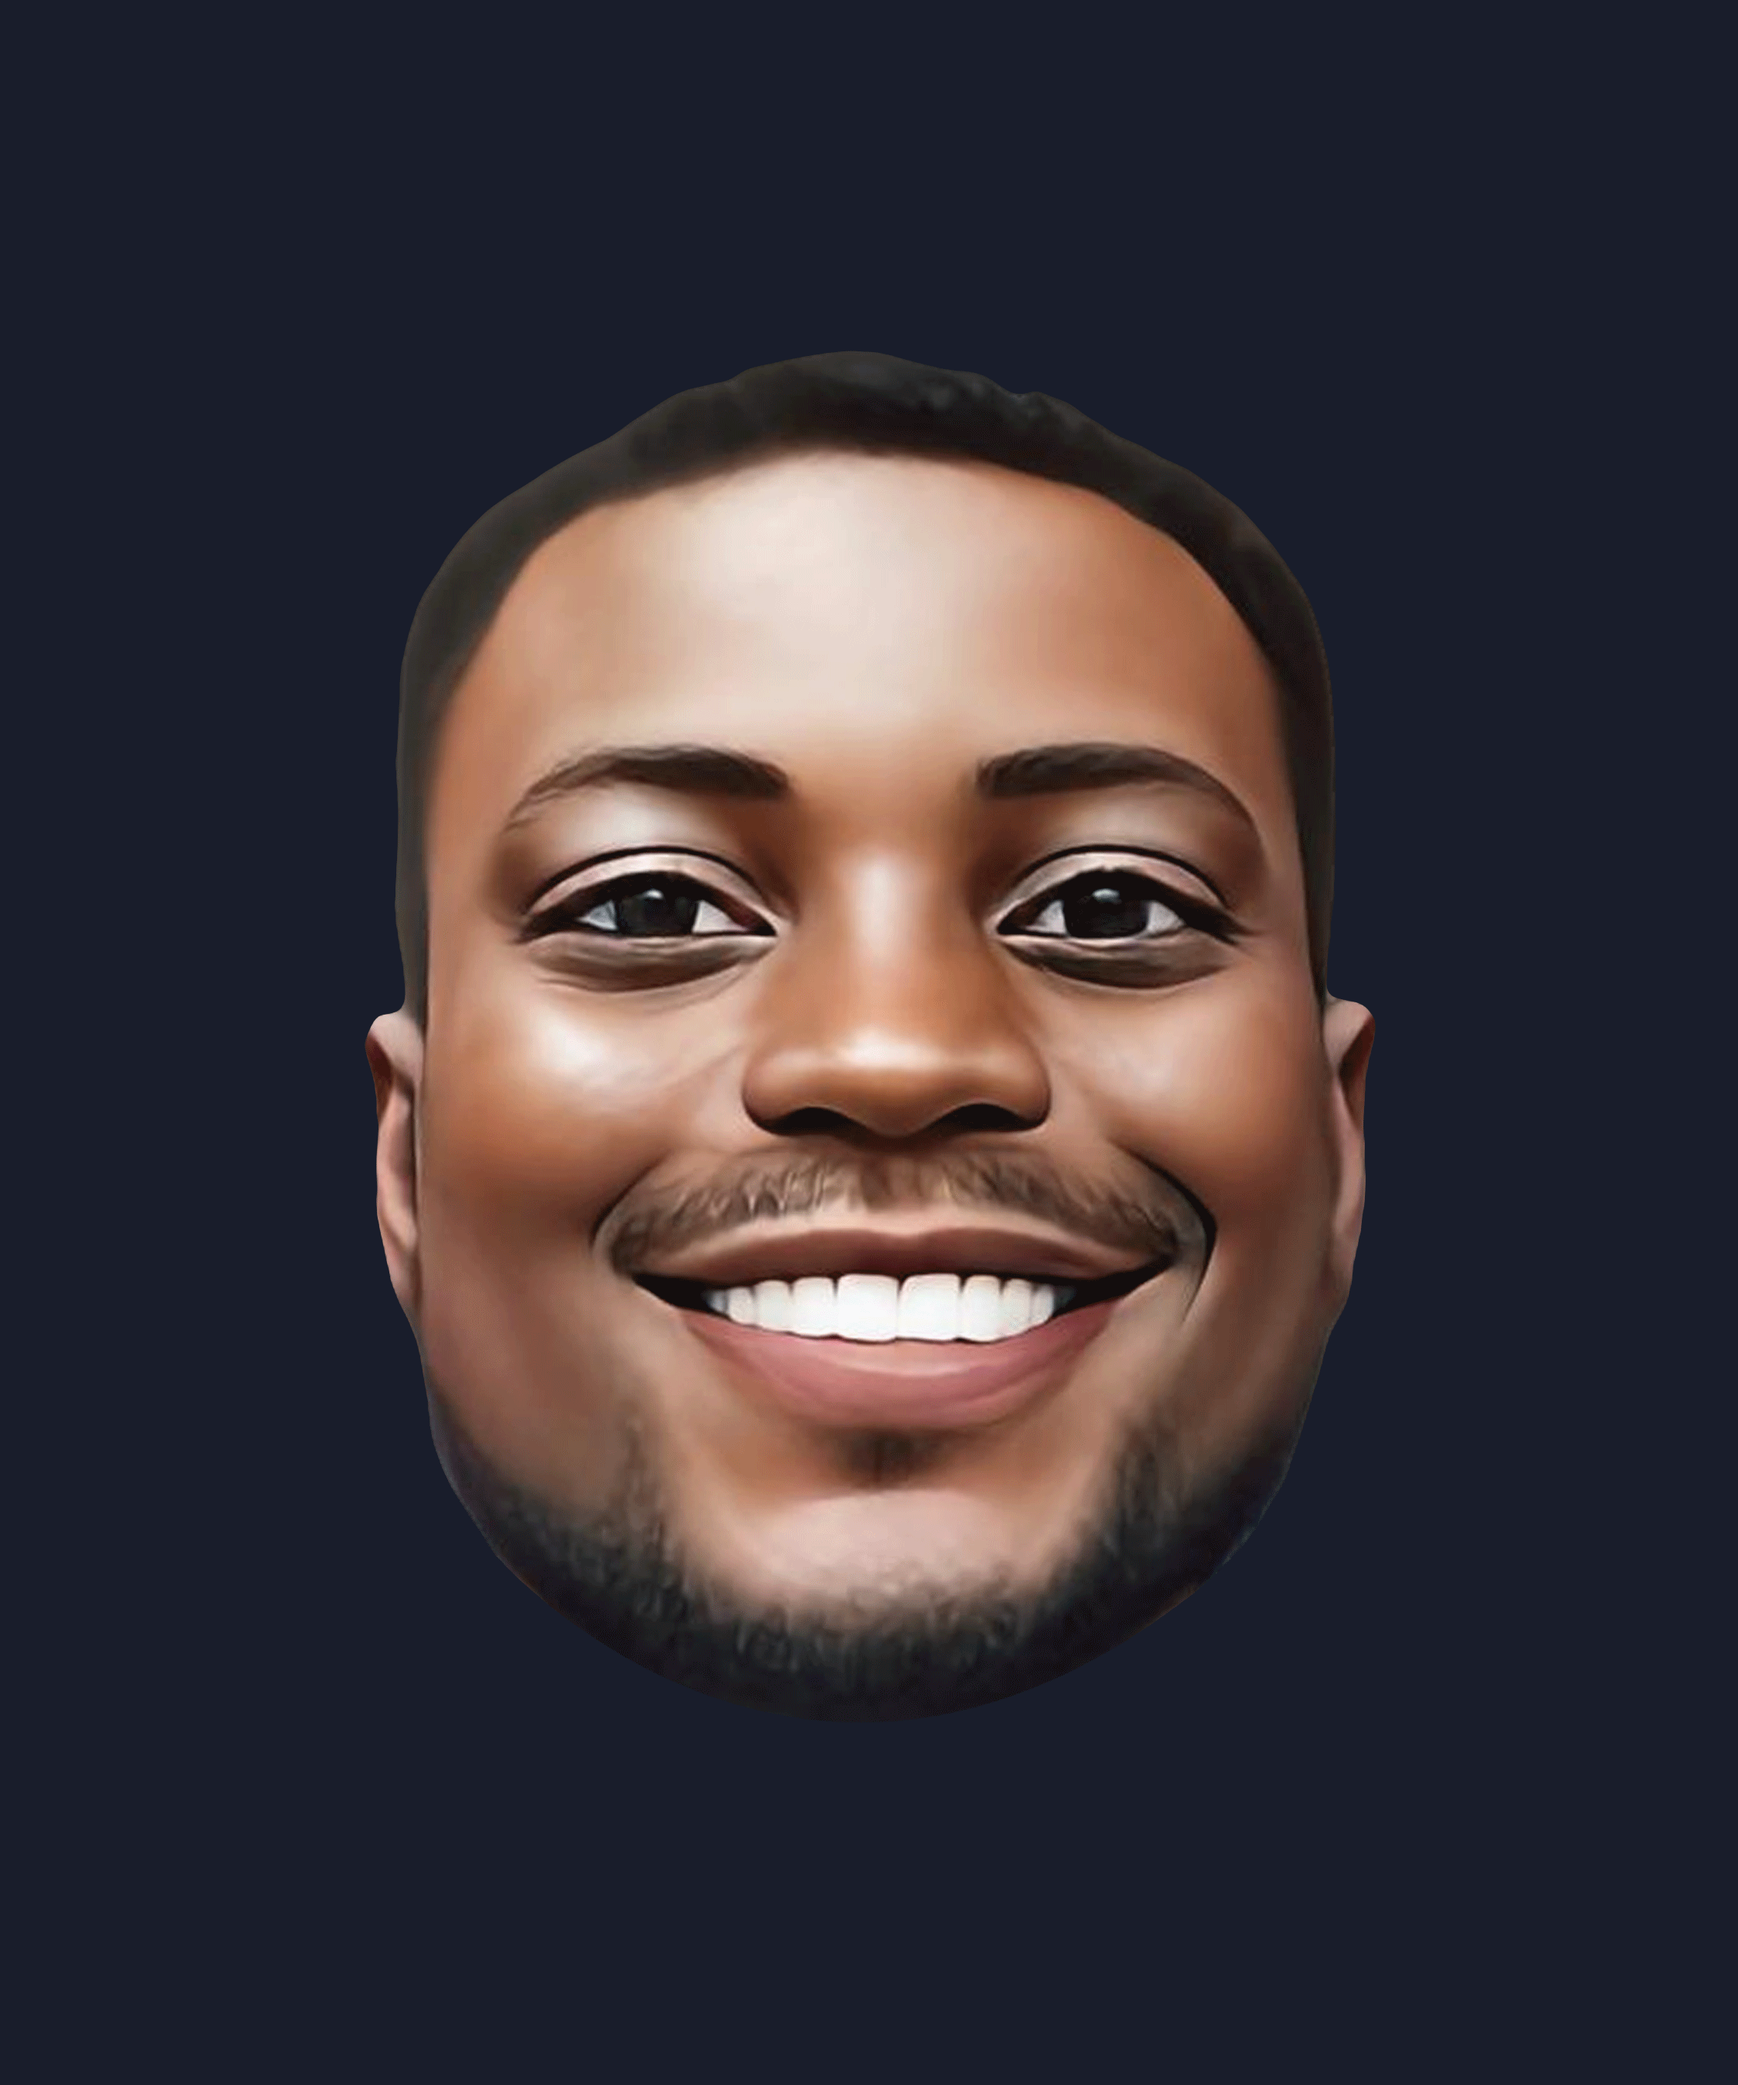
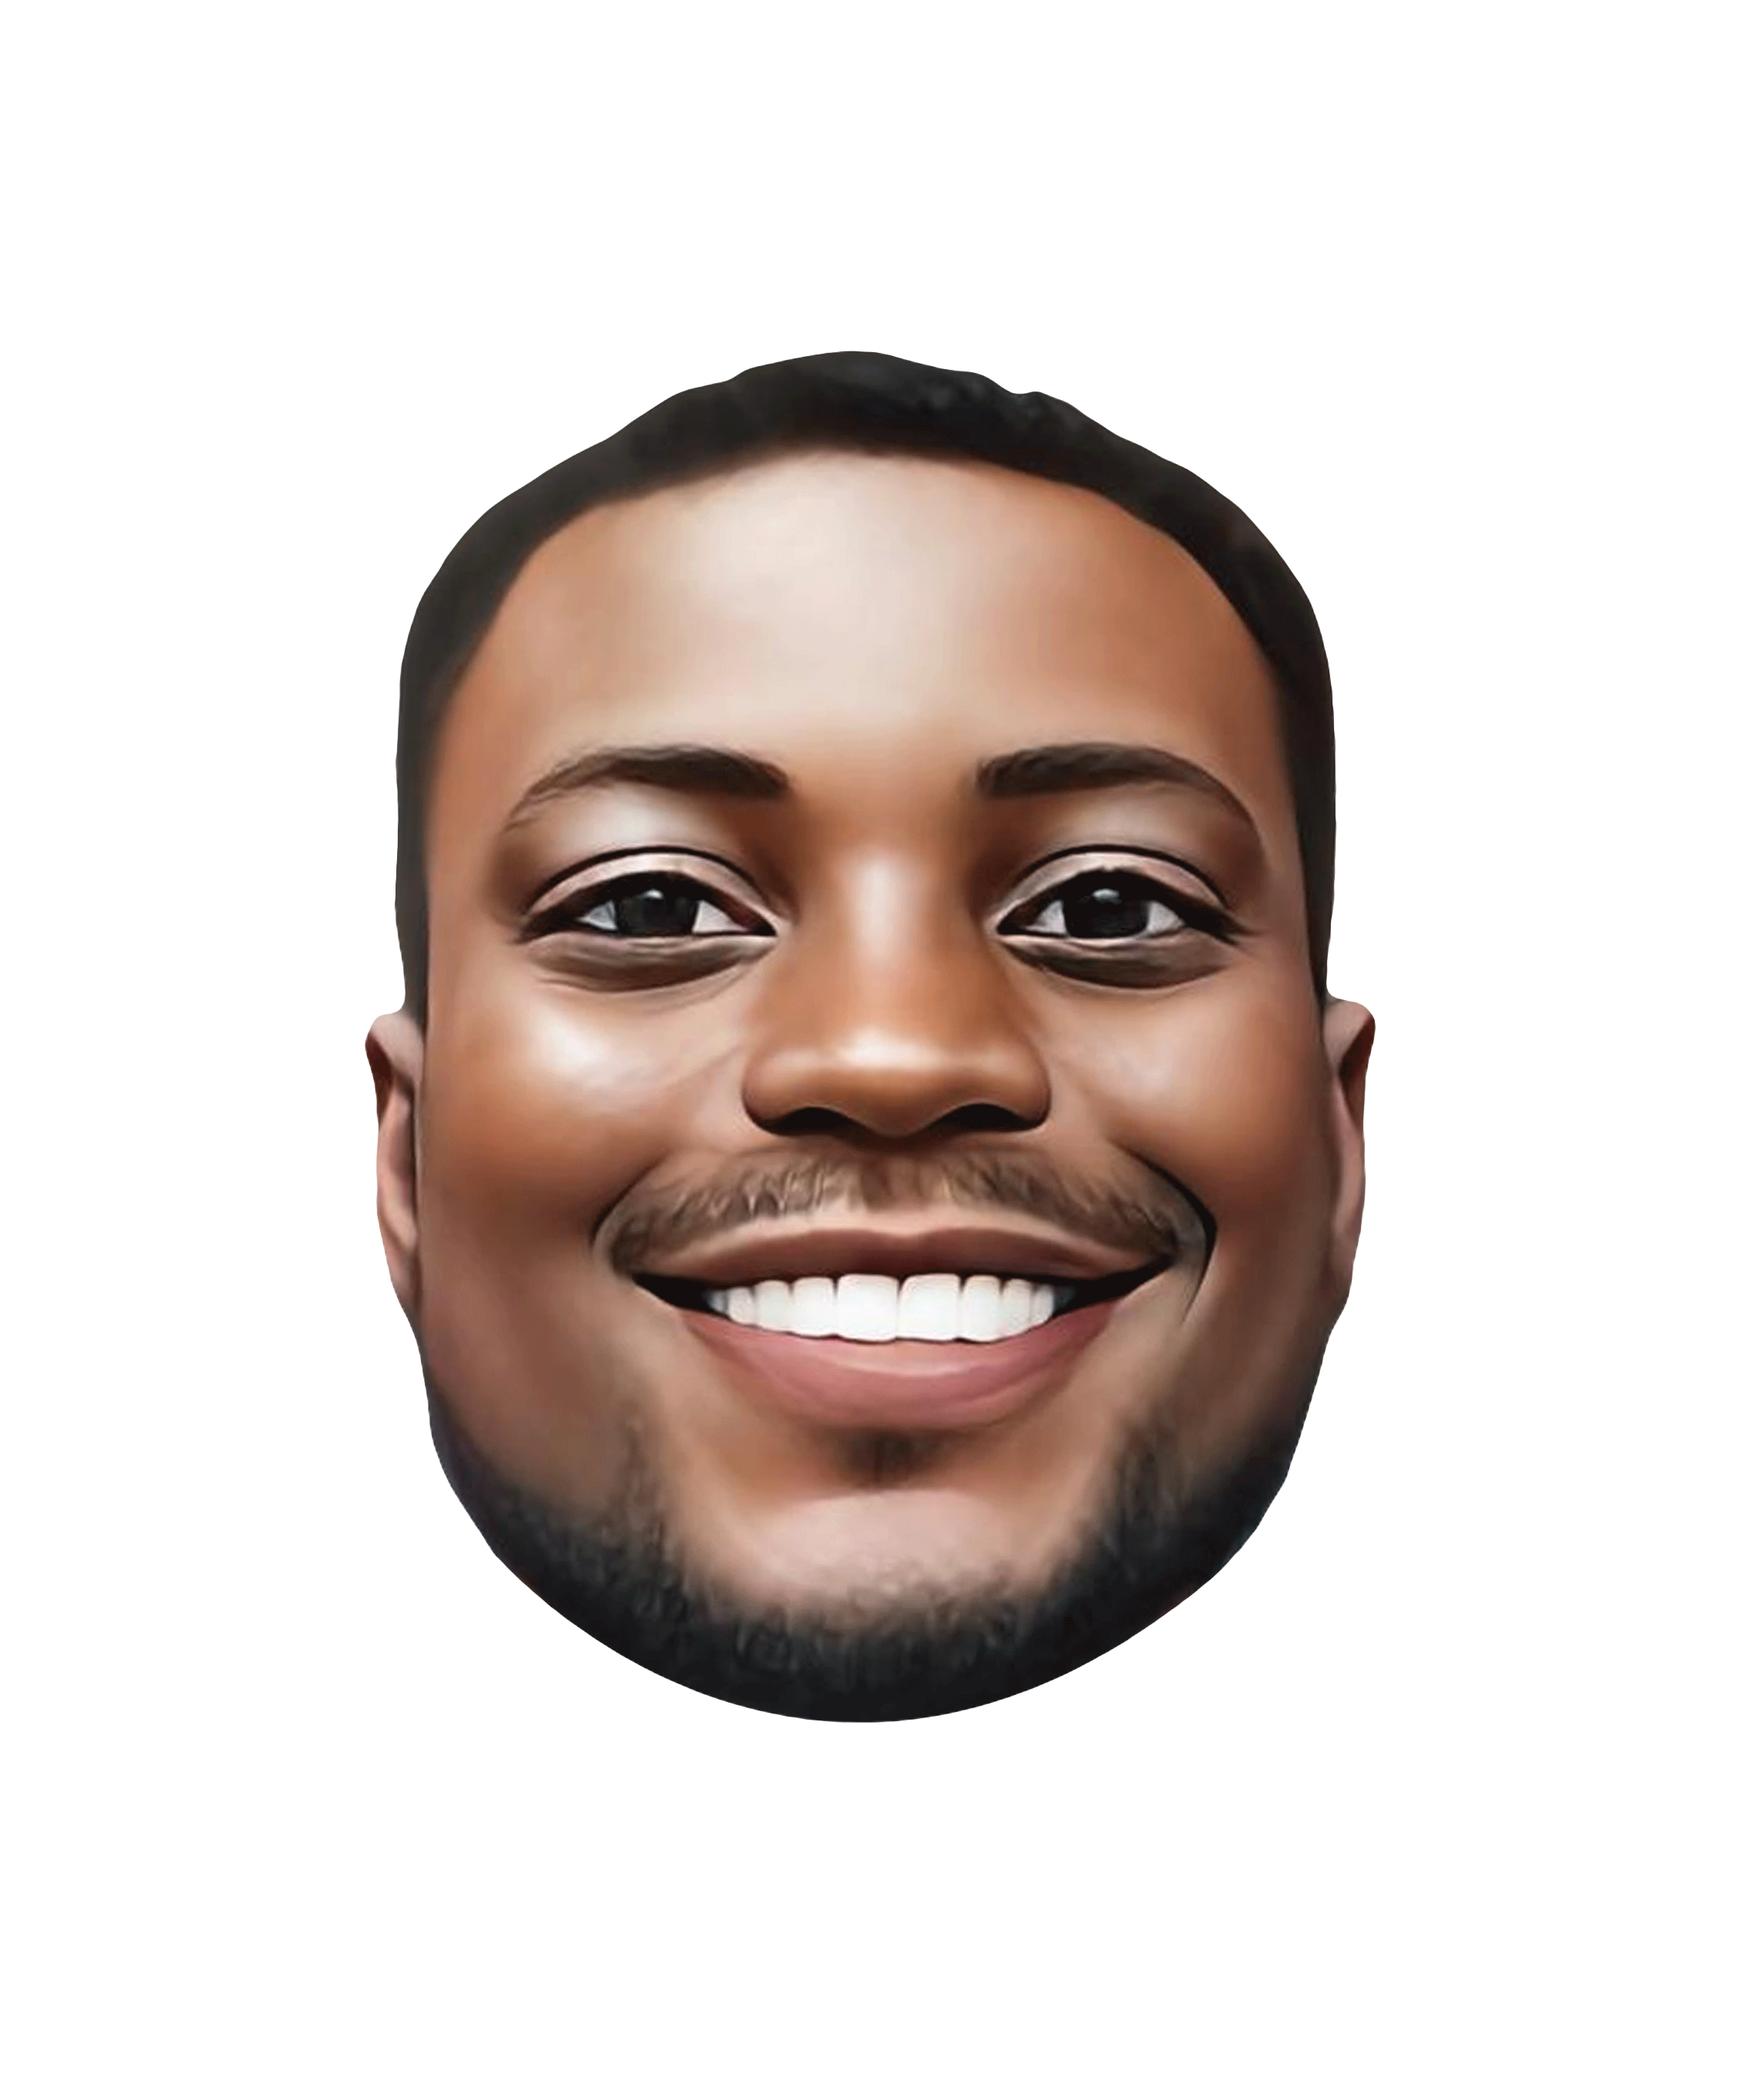
replace image with .png format

diff --git a/index.html b/index.html
@@ -13,7 +13,7 @@
     <link rel="apple-touch-icon" href="%PUBLIC_URL%/logo192.png" />
     <link rel="preconnect" href="https://fonts.googleapis.com">
     <link rel="preconnect" href="https://fonts.gstatic.com" crossorigin>
-    <link href="https://fonts.googleapis.com/css2?family=Jost:wght@400;500;700&display=swap" rel="stylesheet">
+    <link href="https://fonts.googleapis.com/css2?family=Jost:wght@400;500;700;800&display=swap" rel="stylesheet">
     <link rel="stylesheet" href="https://cdnjs.cloudflare.com/ajax/libs/font-awesome/5.8.2/css/all.min.css" integrity="sha512-rqQltXRuHxtPWhktpAZxLHUVJ3Eombn3hvk9PHjV/N5DMUYnzKPC1i3ub0mEXgFzsaZNeJcoE0YHq0j/GFsdGg==" crossorigin="anonymous" referrerpolicy="no-referrer" />
     
     
@@ -49,9 +49,9 @@
               Hi, I'm <span>Ajanaku Oluwatosin Ezekiel.</span> <br />A Mobile & Web Developer.
             </h1>
             <p>
-              I develop beautiful, interactive and fully functional websites, web pages and mobile applications. 
-              My mobile apps are developed using flutter for front end, and firebase for backend.
-              My websites are built using reactjs for frontend and firbase for backend.
+              I build and design beautiful, interactive, fully functional websites and mobile applications. 
+              My mobile apps are build using flutter framework for front end, firebase for backend and compatible with iOS and Android.
+              My websites are built using reactjs for frontend, firebase for backend and optimised for all screen types. 
             </p>
 
             <!-- Button -->

diff --git a/styles/index.scss b/styles/index.scss
@@ -54,7 +54,7 @@ header {
     --icon-inactive: rgb(156, 156, 156);
     --icon-active: white;
     --text-color: black;
-    --muted-text: rgb(160, 160, 160);
+    --muted-text: rgb(116, 116, 116);
 }
 
 .section {
@@ -194,6 +194,7 @@ header {
             background-color: var(--color-primary);
             box-shadow: var(--shadow);
             transition: var(--transition);
+            
             img{
                 width: 100%;
                 height: 100%;
@@ -384,10 +385,14 @@ header {
                 }
             }
             .timeline--duration {
-                padding: .2rem 0;
+                padding: .3rem .6rem;
                 font-size: .8rem;
                 text-transform: uppercase;
                 font-weight: 500;
+                border-radius: 10px;
+                display: inline-block;
+                box-shadow: var(--shadow);
+                color: var(--text-color);
             }
             h5 {
                 padding: 1rem 0;

diff --git a/styles/index.css b/styles/index.css
@@ -53,7 +53,7 @@ header {
   --icon-inactive: rgb(156, 156, 156);
   --icon-active: white;
   --text-color: black;
-  --muted-text: rgb(160, 160, 160);
+  --muted-text: rgb(116, 116, 116);
 }
 
 .section {
@@ -390,10 +390,14 @@ header {
   font-size: 1.3rem;
 }
 .timeline .timeline--container .timeline--item .timeline--duration {
-  padding: 0.2rem 0;
+  padding: 0.3rem 0.6rem;
   font-size: 0.8rem;
   text-transform: uppercase;
   font-weight: 500;
+  border-radius: 10px;
+  display: inline-block;
+  box-shadow: var(--shadow);
+  color: var(--text-color);
 }
 .timeline .timeline--container .timeline--item h5 {
   padding: 1rem 0;
@@ -549,6 +553,7 @@ header {
   }
   .profile--stats .progress--bars {
     padding-left: 1rem;
+    grid-template-columns: 1fr;
   }
   .stats--title {
     padding-bottom: 1rem;

diff --git a/styles/_media.scss b/styles/_media.scss
@@ -53,6 +53,7 @@
         padding: 0 1.2rem 3rem 1.2rem;
         .progress--bars {
             padding-left: 1rem;
+            grid-template-columns: 1fr;
         }
     }
     .stats--title {
